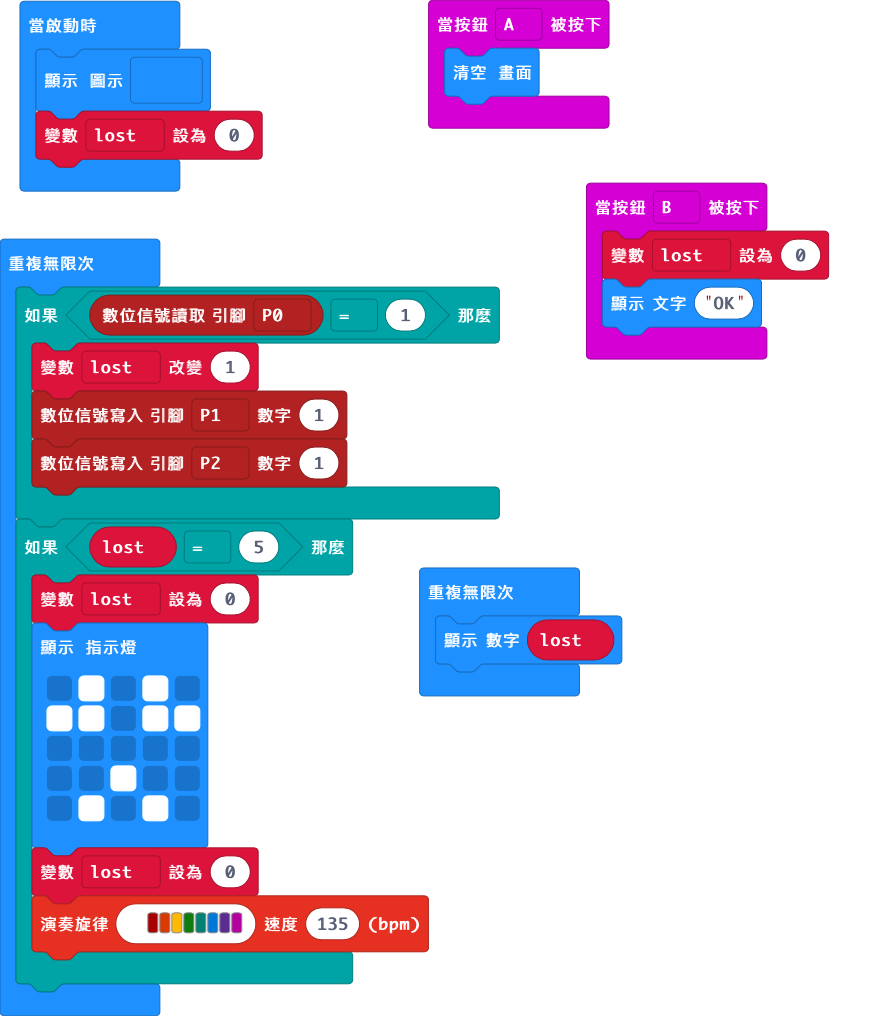
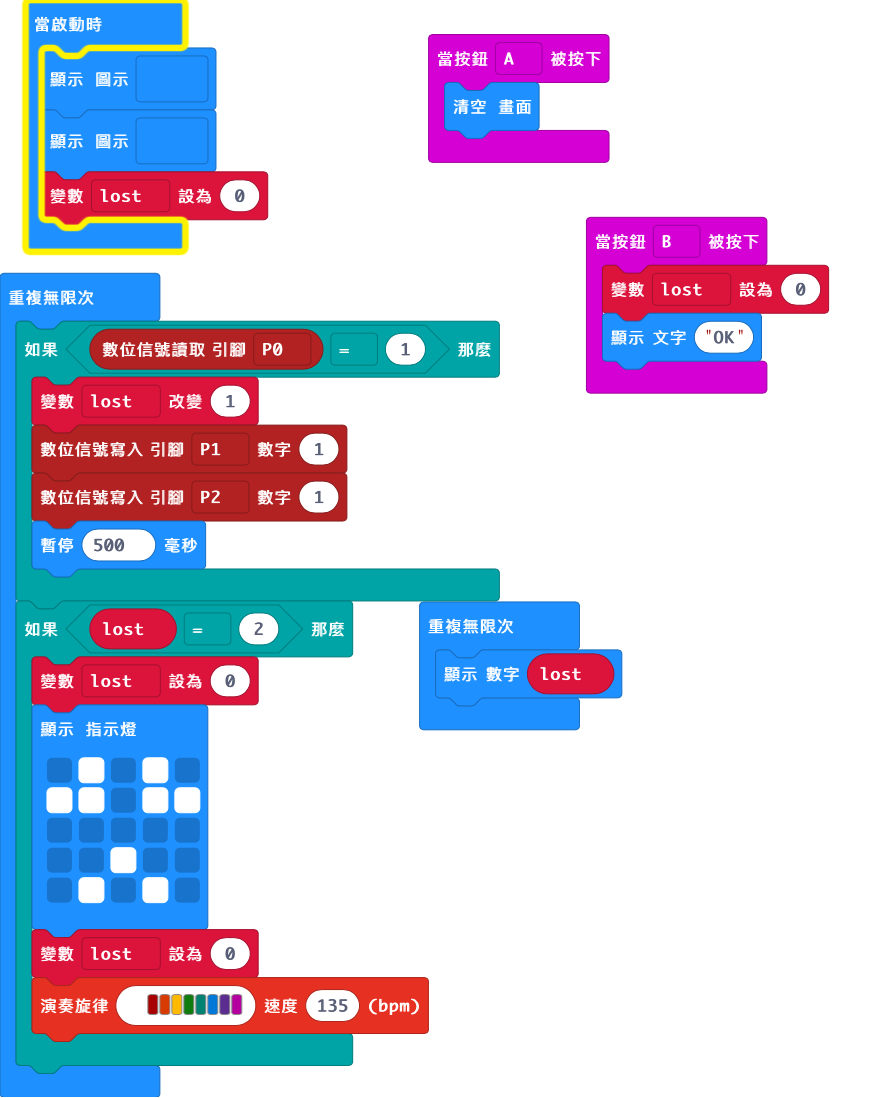
Update main.blocks, main.ts

Changed region(s): [[0.0, 0.0, 0.7049, 0.9764], [0.4597, 0.0, 0.9501, 0.3661]]

diff --git a/main.ts b/main.ts
@@ -6,6 +6,7 @@ input.onButtonPressed(Button.B, function () {
     basic.showString("OK")
 })
 let lost = 0
+basic.showIcon(IconNames.SmallHeart)
 basic.showIcon(IconNames.Heart)
 lost = 0
 basic.forever(function () {
@@ -13,8 +14,9 @@ basic.forever(function () {
         lost += 1
         pins.digitalWritePin(DigitalPin.P1, 1)
         pins.digitalWritePin(DigitalPin.P2, 1)
+        basic.pause(500)
     }
-    if (lost == 5) {
+    if (lost == 2) {
         lost = 0
         basic.showLeds(`
             . # . # .
